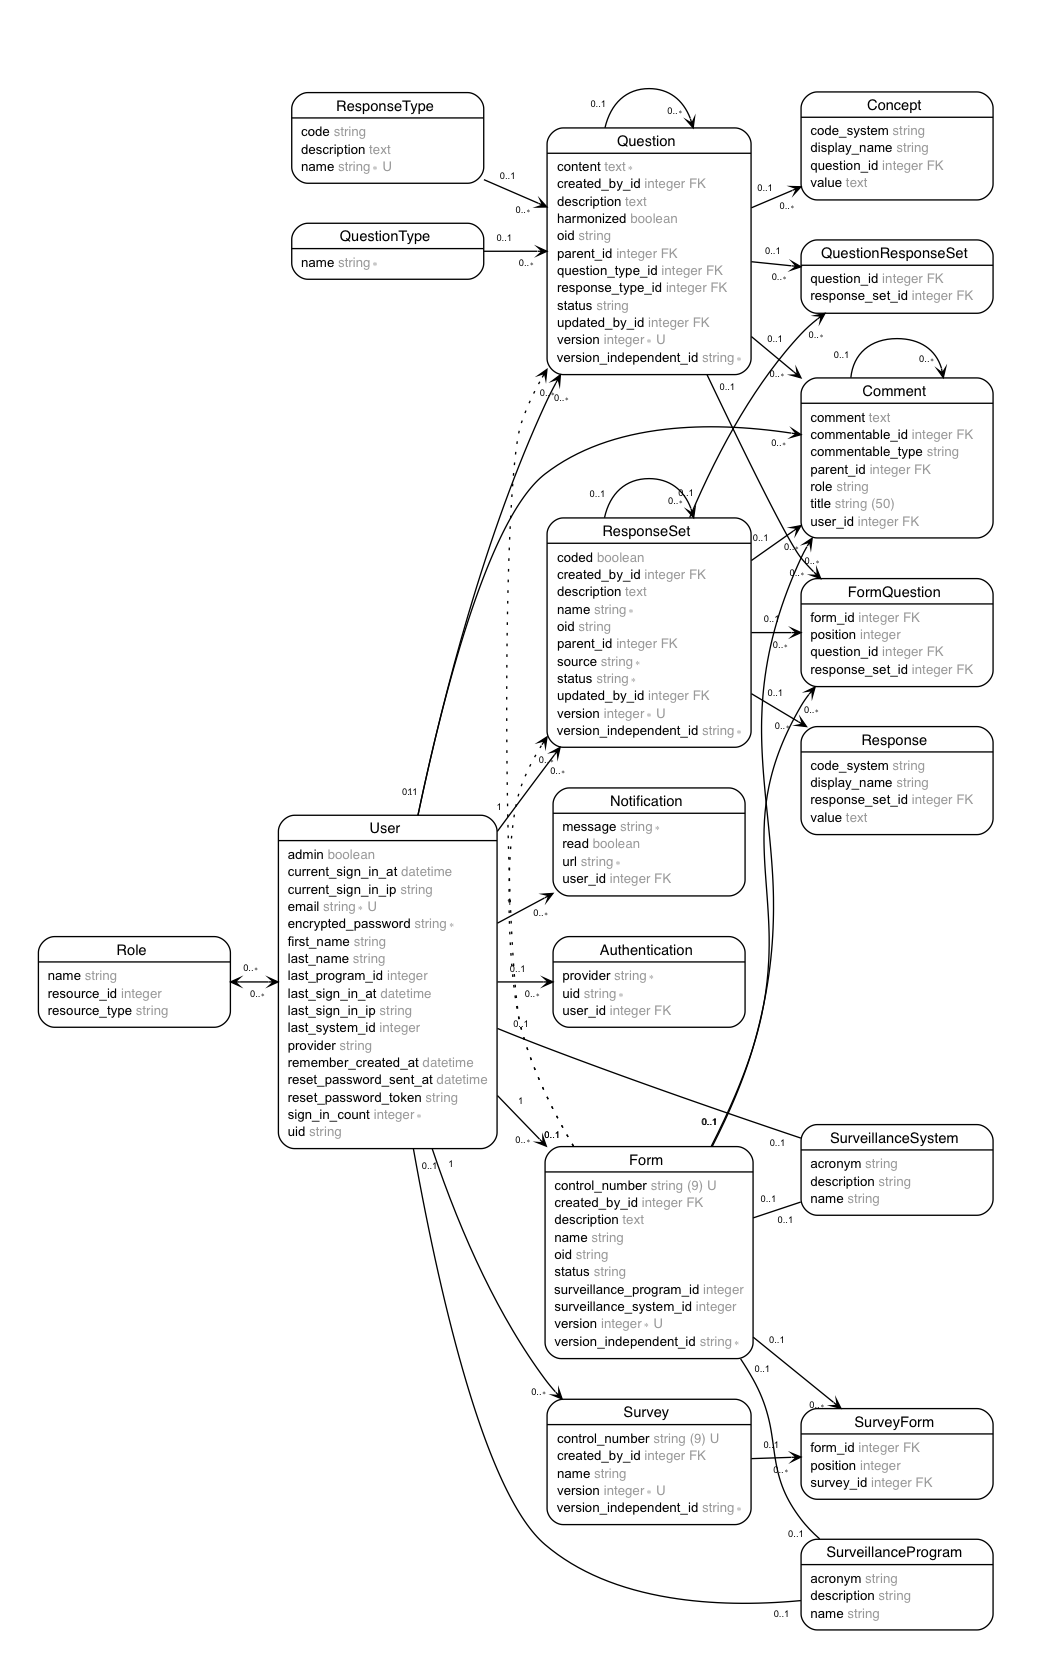
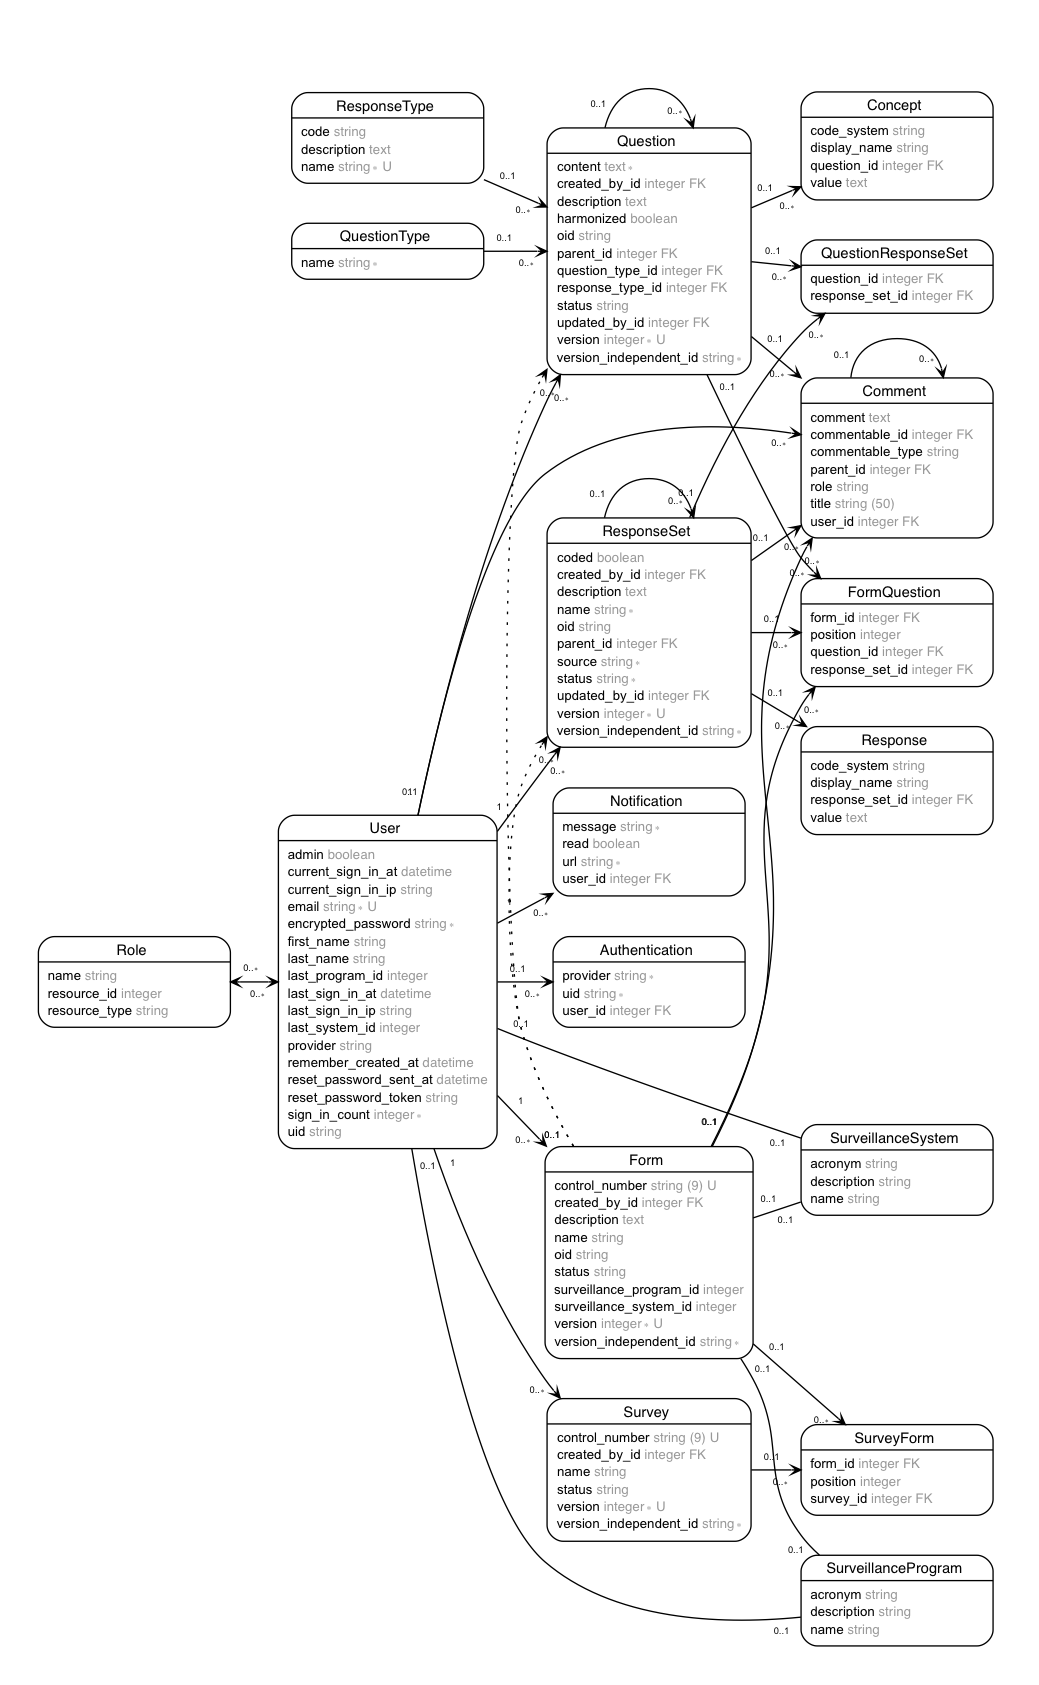
fixing issue with migration and updating erd

diff --git a/db/schema.rb b/db/schema.rb
@@ -10,7 +10,7 @@
 #
 # It's strongly recommended that you check this file into your version control system.
 
-ActiveRecord::Schema.define(version: 20170315192500) do
+ActiveRecord::Schema.define(version: 20170322151732) do
 
   # These are extensions that must be enabled in order to support this database
   enable_extension "plpgsql"
@@ -190,12 +190,13 @@ ActiveRecord::Schema.define(version: 20170315192500) do
 
   create_table "surveys", force: :cascade do |t|
     t.string   "name"
-    t.datetime "created_at",                                   null: false
-    t.datetime "updated_at",                                   null: false
+    t.datetime "created_at",                                         null: false
+    t.datetime "updated_at",                                         null: false
     t.integer  "created_by_id"
     t.string   "version_independent_id"
     t.integer  "version",                          default: 1
     t.string   "control_number",         limit: 9
+    t.string   "status",                           default: "draft"
     t.index ["created_by_id"], name: "index_surveys_on_created_by_id", using: :btree
   end
 

diff --git a/db/migrate/20170322151732_add_status_to_survey.rb b/db/migrate/20170322151732_add_status_to_survey.rb
@@ -1,5 +1,5 @@
 class AddStatusToSurvey < ActiveRecord::Migration[5.0]
   def change
-    add_column :surveys, :status, :sting, default: 'draft'
+    add_column :surveys, :status, :string, default: 'draft'
   end
 end
